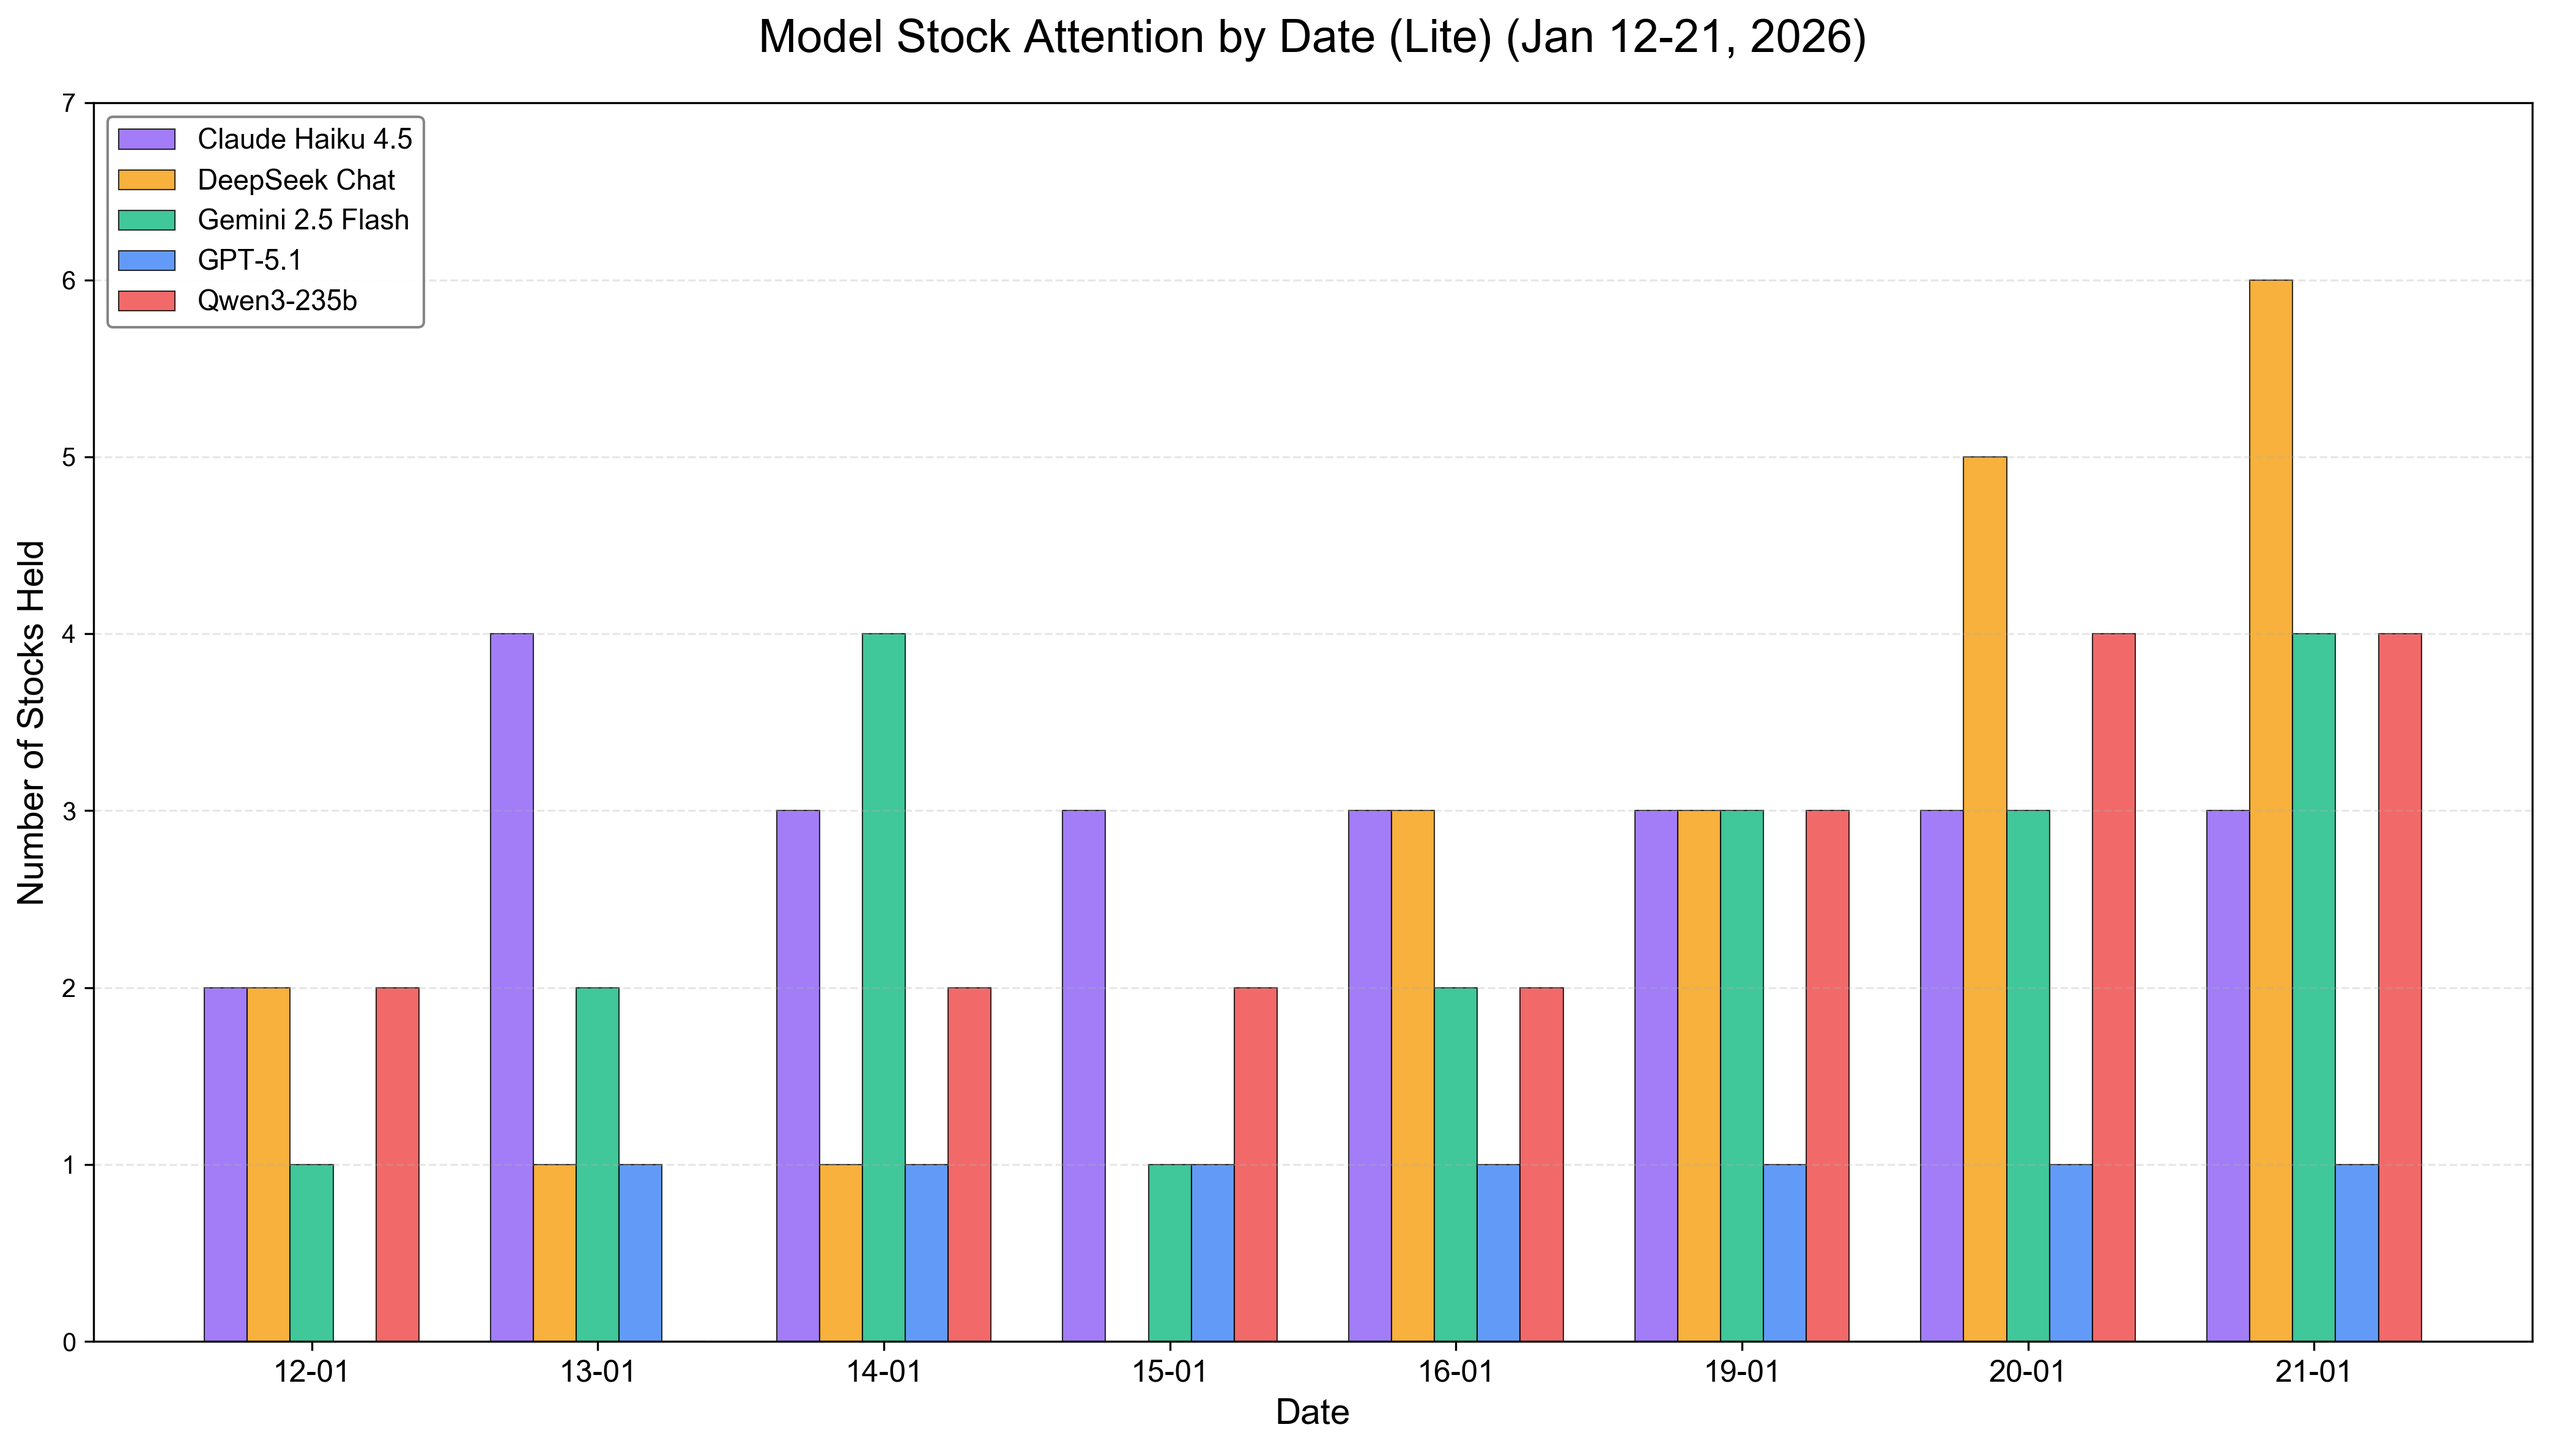
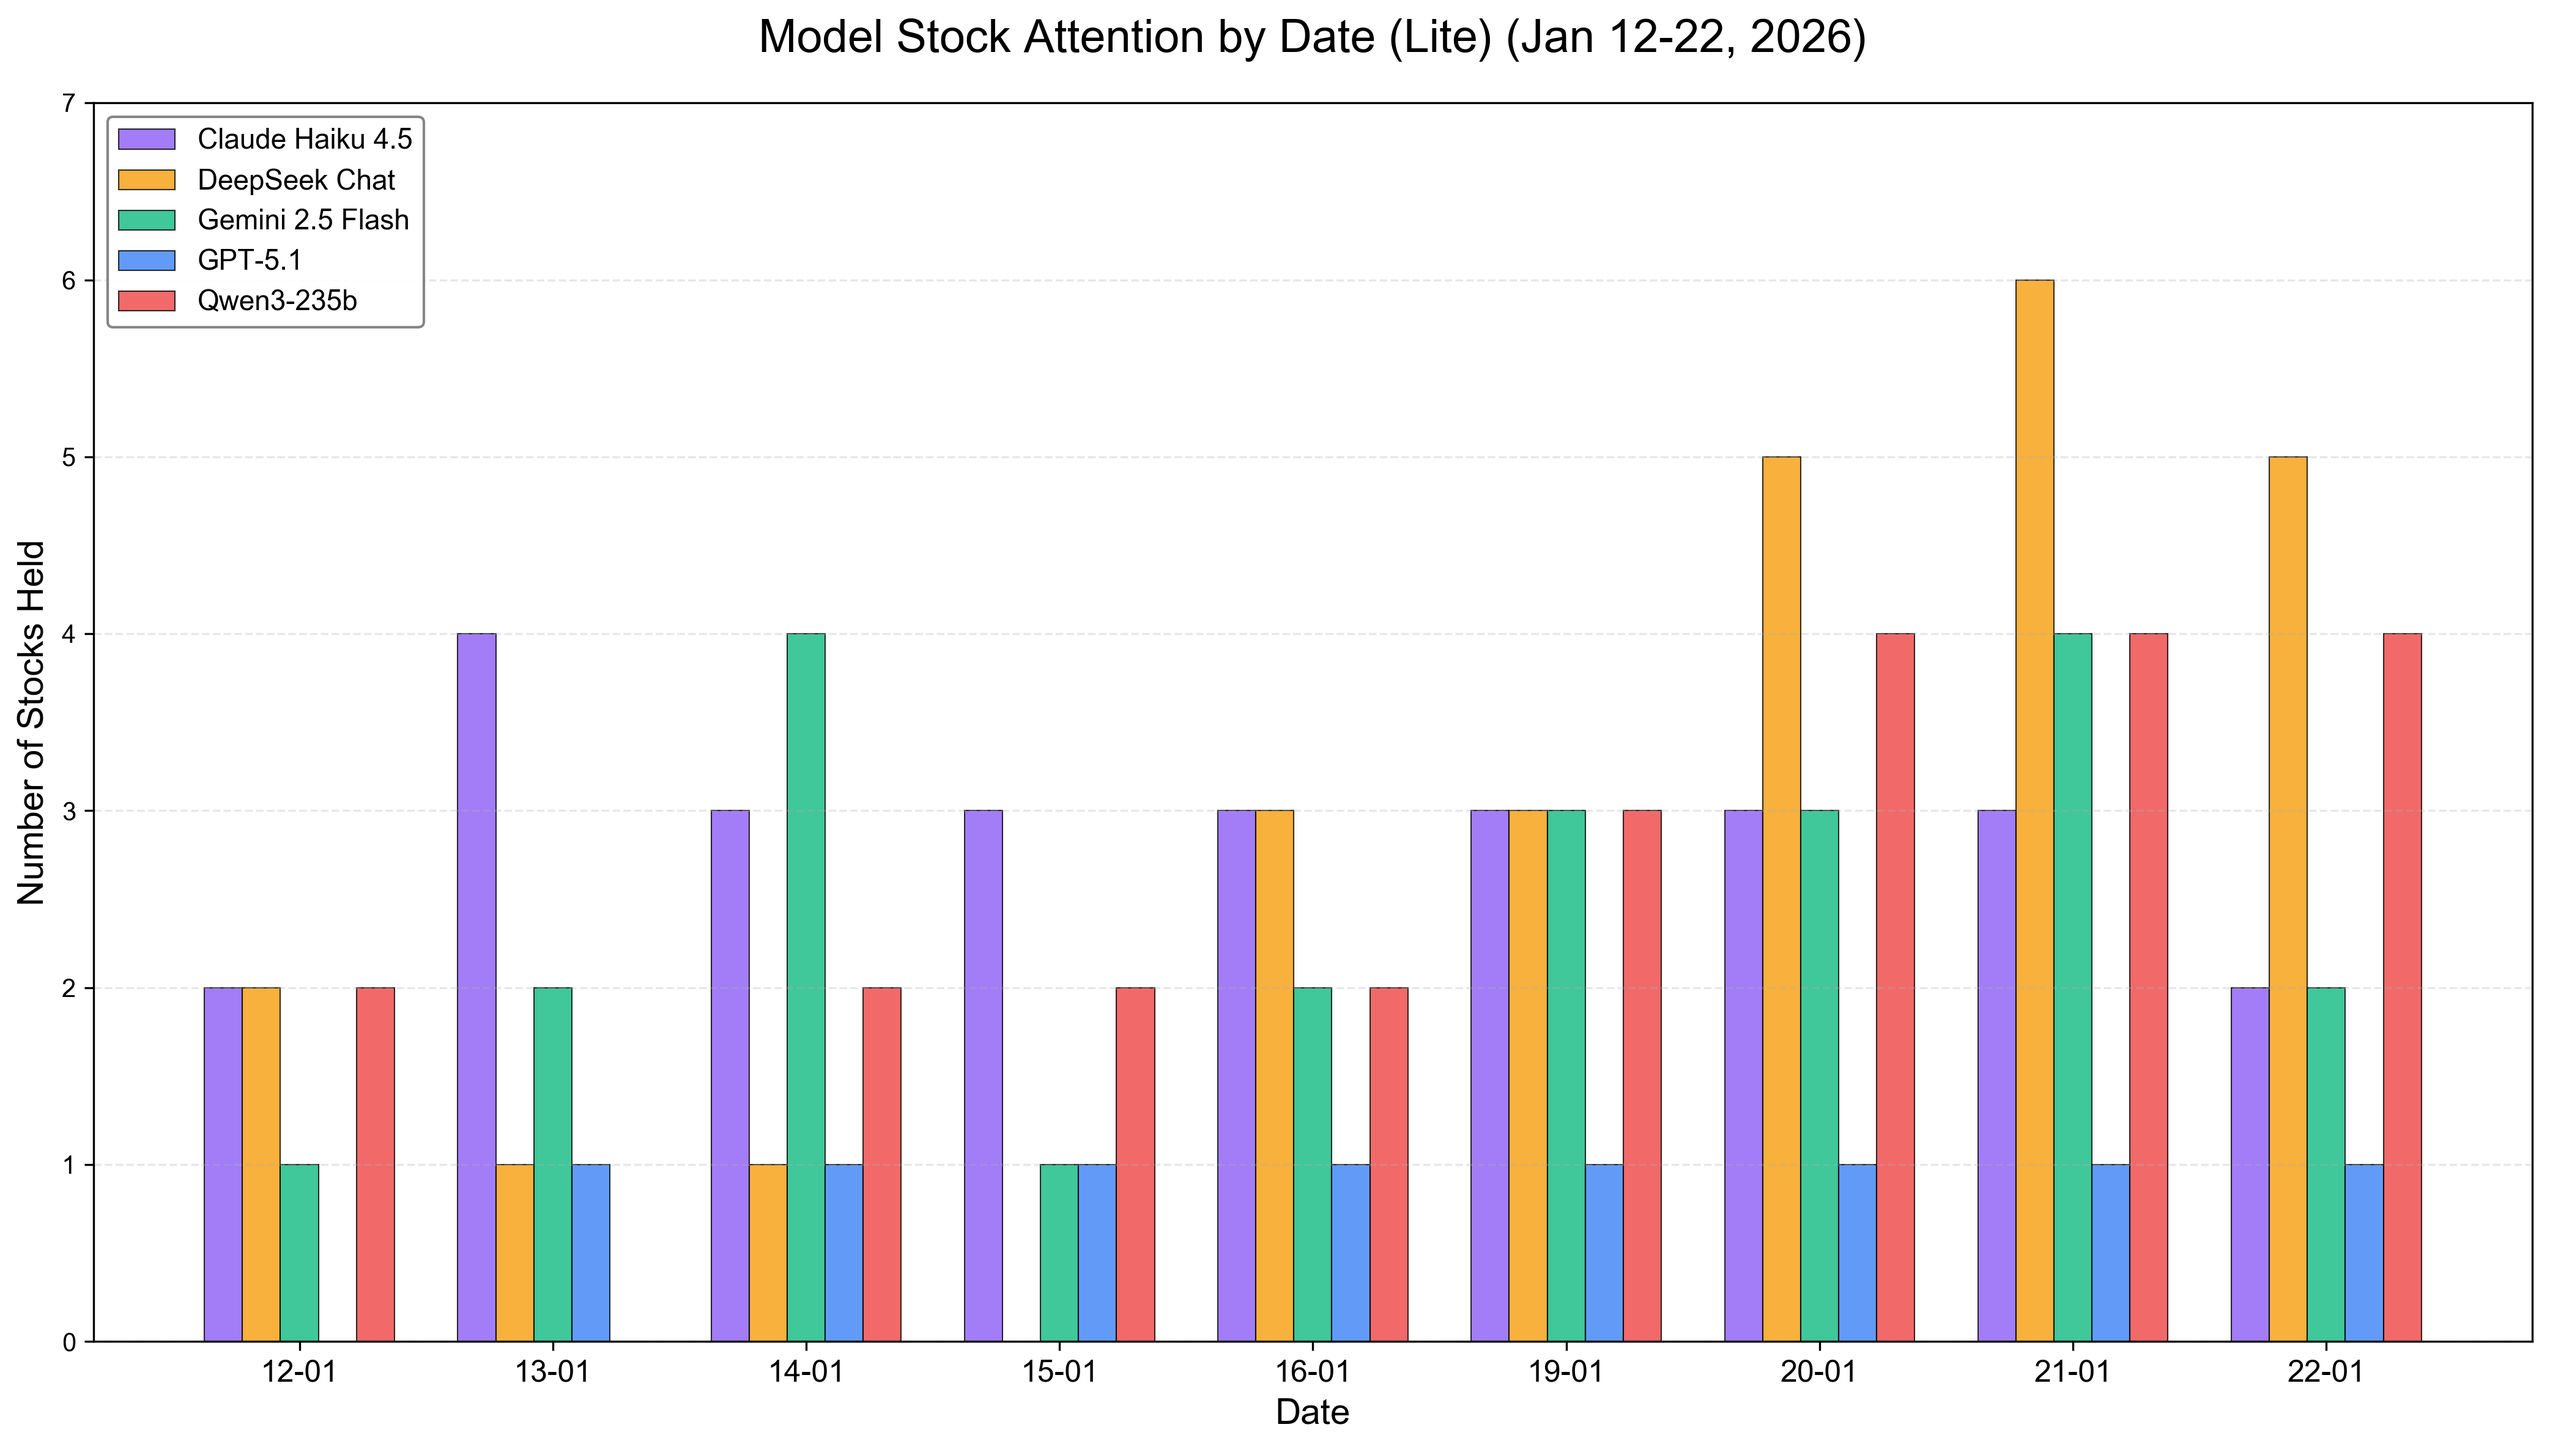
1-22 update

Changed region(s): [[0.0935, 0.1874, 0.9355, 0.9683]]

diff --git a/experiments/visualize.py b/experiments/visualize.py
@@ -25,7 +25,7 @@ OUTPUT_DIR.mkdir(exist_ok=True)
 
 # Date range filter (inclusive)
 DATE_FILTER_START = datetime.strptime("2026-01-12 00:00:00", "%Y-%m-%d %H:%M:%S")
-DATE_FILTER_END = datetime.strptime("2026-01-21 23:59:59", "%Y-%m-%d %H:%M:%S")
+DATE_FILTER_END = datetime.strptime("2026-01-22 23:59:59", "%Y-%m-%d %H:%M:%S")
 
 
 def in_date_range(dt: datetime) -> bool:
@@ -538,11 +538,15 @@ def extract_model_attention_by_date(model_dict: Dict = None) -> Dict[str, Dict[s
     return model_attention
 
 
-def plot_model_attention_by_date(model_attention: Dict[str, Dict[str, int]], output_filename: str = "model_attention_by_date.png", title_prefix: str = "Model Stock Attention by Date"):
+def plot_model_attention_by_date(model_attention: Dict[str, Dict[str, int]], output_filename: str = "model_attention_by_date.png", title_prefix: str = "Model Stock Attention by Date", models_config: Dict = None):
     """绘制每个模型在不同日期的关注度（持有股票数）"""
     if not model_attention:
         print("⚠ No model attention data available")
         return
+    
+    # 如果没有指定 models_config，使用全局 MODELS
+    if models_config is None:
+        models_config = MODELS
     
     # 获取所有日期
     all_dates = set()
@@ -574,8 +578,8 @@ def plot_model_attention_by_date(model_attention: Dict[str, Dict[str, int]], out
     for idx, model_sig in enumerate(model_sigs):
         stocks_count = [model_attention.get(model_sig, {}).get(date, 0) 
                         for date in all_dates]
-        label = MODELS.get(model_sig, {}).get("label", model_sig)
-        color = MODELS.get(model_sig, {}).get("color", "#666666")
+        label = models_config.get(model_sig, {}).get("label", model_sig)
+        color = models_config.get(model_sig, {}).get("color", "#666666")
         
         ax.bar(x + idx * width, stocks_count,
                width=width,
@@ -1707,10 +1711,10 @@ def main():
     
     print("📊 Generating model attention by date charts (Lite, Pro)...")
     model_attention_lite = extract_model_attention_by_date(MODELS_LITE)
-    plot_model_attention_by_date(model_attention_lite, "model_attention_by_date_lite.png", "Model Stock Attention by Date (Lite)")
+    plot_model_attention_by_date(model_attention_lite, "model_attention_by_date_lite.png", "Model Stock Attention by Date (Lite)", models_config=MODELS_LITE)
 
     model_attention_pro = extract_model_attention_by_date(MODELS_PRO)
-    plot_model_attention_by_date(model_attention_pro, "model_attention_by_date_pro.png", "Model Stock Attention by Date (Pro)")
+    plot_model_attention_by_date(model_attention_pro, "model_attention_by_date_pro.png", "Model Stock Attention by Date (Pro)", models_config=MODELS_PRO)
     
     # 4.5 生成模型版本对比图
     print("📈 Generating Model Version Comparison chart (Lite vs Pro)...")

diff --git a/experiments/visualizations/performance_summary.md b/experiments/visualizations/performance_summary.md
@@ -2,8 +2,8 @@
 
 | Model | Latest Return | Max Return | Min Return | Volatility |
 |-------|---------------|------------|------------|------------|
-| Claude Haiku 4.5 | -4.86% | 0.23% | -5.43% | 1.60% |
-| DeepSeek Chat | -0.48% | 0.12% | -1.96% | 0.73% |
-| Gemini 2.5 Flash | -1.58% | 0.00% | -6.45% | 2.11% |
+| Claude Haiku 4.5 | -3.70% | 0.23% | -5.43% | 1.58% |
+| DeepSeek Chat | -2.27% | 0.12% | -2.27% | 0.75% |
+| Gemini 2.5 Flash | -1.29% | 0.00% | -6.45% | 2.05% |
 | GPT-5.1 | -0.02% | 0.00% | -0.02% | 0.01% |
-| Qwen3-235b | -1.23% | -0.01% | -1.80% | 0.56% |
+| Qwen3-235b | -1.23% | -0.01% | -1.80% | 0.53% |
